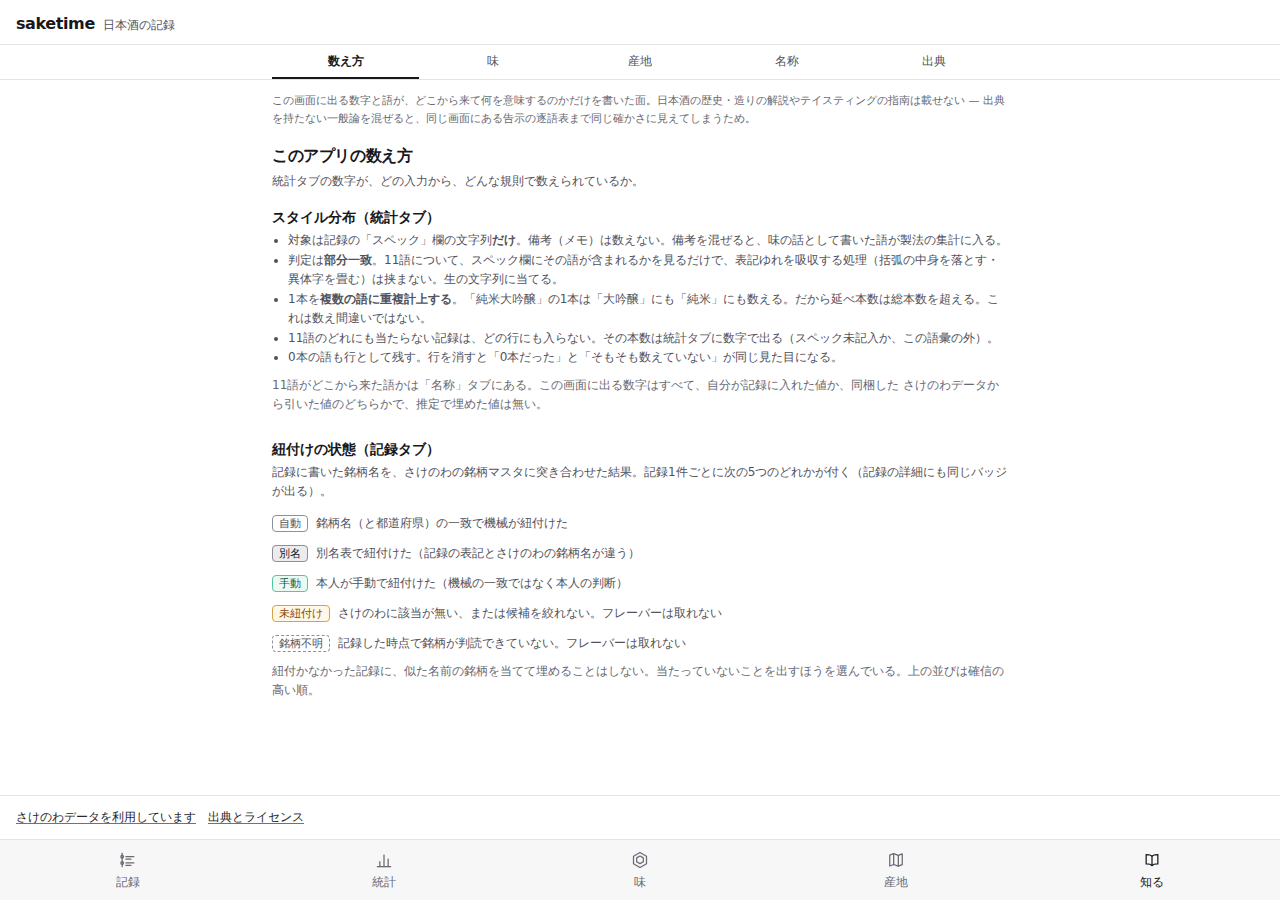
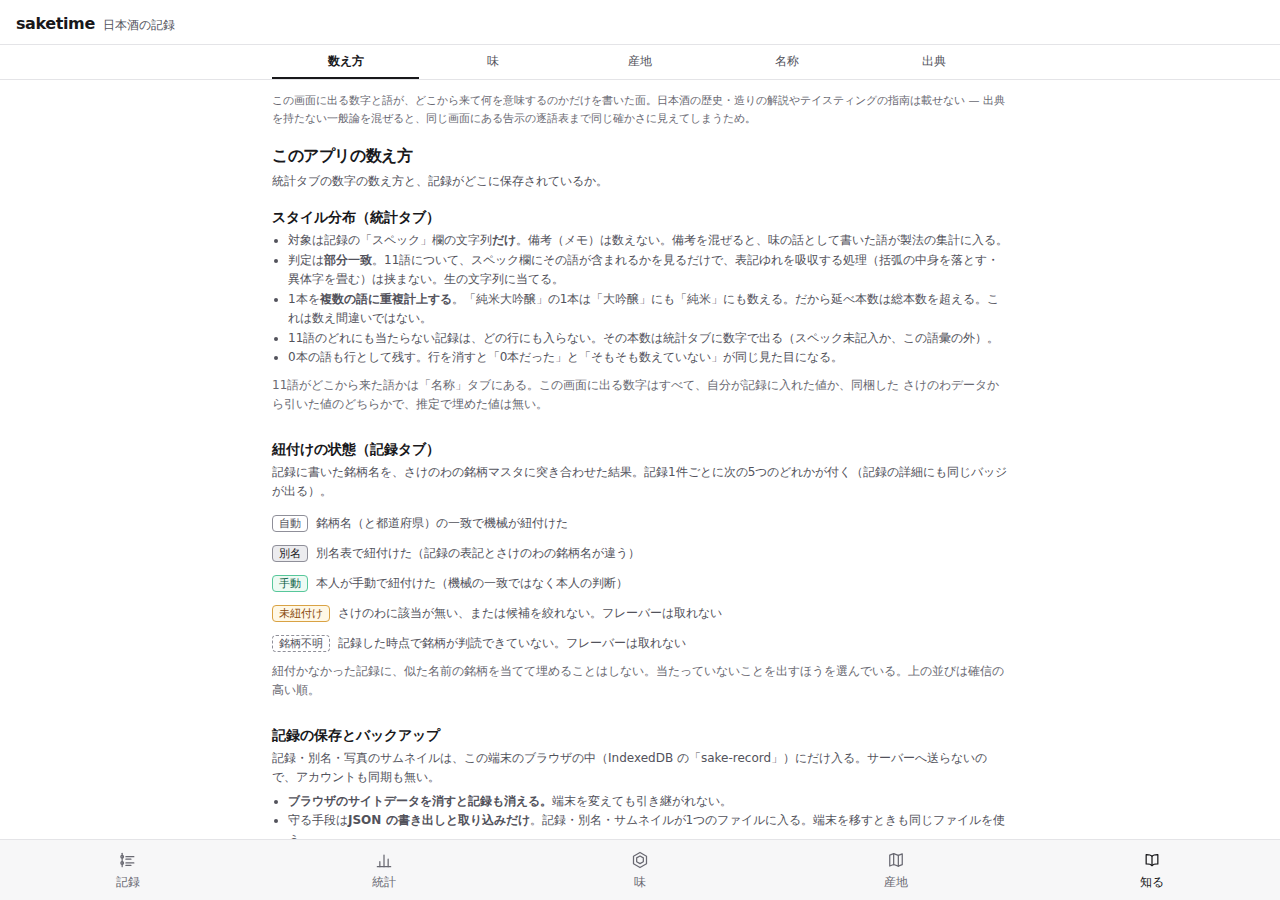
「知る」に記録の保存とバックアップの節を足す
記録が端末内にしか無いこと・消える条件・唯一の避難手段は、SPEC の
「決定に由来する制約」に書いてあるだけで画面のどこにも無かった。
「知る」の拡充で最も実害が大きいのはここなので先に足す。

- 記録・別名・サムネイルは IndexedDB(DB_NAME)にだけ入る。サーバーへ送らない
- サイトデータを消すと消える / 端末間で引き継がれない
- 守る手段は JSON の書き出しと取り込みだけ
- 督促のしきい値(14/30日)とサムネイル仕様(400px / 50KB)は実装から引く
  (BackupNag が BACKUP_NOTICE_DAYS / BACKUP_STRONG_DAYS を export し、
   説明側は書き写さない。しきい値を変える変異で赤になることを確認)

npm run ci exit 0 (51 files / 1188 passed | 24 skipped)
demo-learn-390 / -1280 を撮り直した

Claude-Session: https://claude.ai/code/session_01AZUZ7iivu1N5qasut5vHGu

diff --git a/src/ui/Learn/Learn.tsx b/src/ui/Learn/Learn.tsx
@@ -40,7 +40,10 @@
 import { useEffect, useRef, useState, type ReactNode } from 'react'
 import { SAKENOWA_URL, SAKENOWA_DATA_URL } from '../../config/app.ts'
 import { STYLE_TERMS } from '../../domain/stats.ts'
+import { DB_NAME } from '../../store/db.ts'
+import { MAX_THUMBNAIL_BYTES, EDGE_LADDER } from '../../lib/image/resize.ts'
 import { MapCredit } from '../Attribution/Attribution.tsx'
+import { BACKUP_NOTICE_DAYS, BACKUP_STRONG_DAYS } from '../ImportExport/BackupNag.tsx'
 import { FILL_STEPS } from '../AreaMap/fillSteps.ts'
 import { PREFECTURE_TOTAL } from '../AreaMap/areaRows.ts'
 import { LINK_STATUS_BADGES, LINK_STATUS_ORDER } from '../Timeline/linkStatus.ts'
@@ -94,7 +97,10 @@ const LINK = 'text-link underline decoration-link-underline underline-offset-2'
 /** 表のセル。`align-top` は行の高さが揃わない多列の表で1行目を読ませるため */
 const CELL = 'border border-line px-1.5 py-1 text-left align-top font-normal'
 /** 語のチップ。原子ラベルなので必ず `whitespace-nowrap`（日本語は語中で折れる） */
-const CHIP = 'whitespace-nowrap rounded-full border border-line-strong bg-surface-raised px-2 py-0.5 text-[11px] text-ink'
+const CHIP =
+  'whitespace-nowrap rounded-full border border-line-strong bg-surface-raised px-2 py-0.5 text-[11px] text-ink'
+/** サムネイルの長辺（`EDGE_LADDER` の先頭 = SPEC の既定値。落とし込みの段は説明に出さない） */
+const THUMBNAIL_EDGE = EDGE_LADDER[0]
 
 type Props = {
   /**
@@ -217,6 +223,7 @@ function Panel({ id }: { id: LearnPanelId }) {
           <>
             <StyleCounting />
             <LinkStatusLegend />
+            <StorageNotes />
           </>
         )}
         {id === 'flavor' && (
@@ -347,6 +354,39 @@ function LinkStatusLegend() {
       <p className={NOTE}>
         紐付かなかった記録に、似た名前の銘柄を当てて埋めることはしない。当たっていないことを出すほうを選んでいる。上の並びは確信の高い順。
       </p>
+    </Block>
+  )
+}
+
+/**
+ * 記録がどこにあるか。**このアプリで最も実害の大きい知識**なので画面に置く
+ * （SPEC の「決定に由来する制約」に書いてあるだけで、これまで画面のどこにも無かった）。
+ *
+ * 数値は実装から引く: DB 名は `DB_NAME`、督促のしきい値は `BACKUP_NOTICE_DAYS` /
+ * `BACKUP_STRONG_DAYS`、サムネイルの上限は `MAX_THUMBNAIL_BYTES` と `EDGE_LADDER[0]`。
+ * **ここに数字を書き写さない** — 書き写すと、しきい値を直したときに説明だけが古くなる。
+ */
+function StorageNotes() {
+  return (
+    <Block id="counting-storage">
+      <p className={BODY}>
+        {`記録・別名・写真のサムネイルは、この端末のブラウザの中（IndexedDB の「${DB_NAME}」）にだけ入る。サーバーへ送らないので、アカウントも同期も無い。`}
+      </p>
+      <ul className={`${BODY} list-disc pl-4`}>
+        <li>
+          <b>ブラウザのサイトデータを消すと記録も消える。</b>
+          端末を変えても引き継がれない。
+        </li>
+        <li>
+          守る手段は<b>JSON の書き出しと取り込みだけ</b>。記録・別名・サムネイルが1つのファイルに入る。端末を移すときも同じファイルを使う。
+        </li>
+        <li>
+          {`最後に書き出してから ${String(BACKUP_NOTICE_DAYS)}日で注意、${String(BACKUP_STRONG_DAYS)}日で強い注意を記録タブに出す。一度も書き出していないときは経過日数が分からないので、段は上げずに事実だけを言う。`}
+        </li>
+        <li>
+          {`写真は長辺 ${String(THUMBNAIL_EDGE)}px・${String(Math.round(MAX_THUMBNAIL_BYTES / 1024))}KB 以下のサムネイルだけを保存する。原本はアプリが持たない（端末のカメラロールに残る）。ラベルの OCR も端末内で動くので、写真は外に出ない。`}
+        </li>
+      </ul>
     </Block>
   )
 }

diff --git a/src/ui/Learn/Learn.test.tsx b/src/ui/Learn/Learn.test.tsx
@@ -283,6 +283,25 @@ describe('Learn（知る）', () => {
       },
     )
 
+    // ★ 実害が最も大きい知識。記録は端末内にしかなく、消える条件とバックアップの手段を
+    // 画面に書いていなかった（SPEC の「決定に由来する制約」に書いてあるだけだった）
+    it('記録が端末内にしか無いこと・消える条件・唯一の避難手段を書く', () => {
+      render(<Learn />)
+
+      expect(screen.getByText(/この端末のブラウザの中/)).toBeInTheDocument()
+      expect(screen.getByText(/サイトデータを消すと記録も消える/)).toBeInTheDocument()
+      expect(screen.getByText(/JSON の書き出しと取り込みだけ/)).toBeInTheDocument()
+    })
+
+    // 数値は実装から引く（14/30日・400px・50KB を書き写すと、直したとき説明だけが古くなる）
+    it('督促のしきい値とサムネイルの仕様を実装と同じ値で出す', () => {
+      render(<Learn />)
+
+      expect(screen.getByText(/14日で注意、30日で強い注意/)).toBeInTheDocument()
+      expect(screen.getByText(/長辺 400px・50KB 以下/)).toBeInTheDocument()
+      expect(screen.getByText(/原本はアプリが持たない/)).toBeInTheDocument()
+    })
+
     it('スタイル分布の規則（スペック欄だけ・部分一致・重複計上・備考は数えない）を書く', () => {
       render(<Learn />)
       expect(screen.getByText(/備考（メモ）は数えない/)).toBeInTheDocument()

diff --git a/src/ui/Learn/outline.ts b/src/ui/Learn/outline.ts
@@ -31,6 +31,7 @@ export type LearnPanelId = 'counting' | 'flavor' | 'area' | 'meisho' | 'sources'
 export type LearnSubId =
   | 'counting-style'
   | 'counting-link'
+  | 'counting-storage'
   | 'flavor-axes'
   | 'flavor-tags'
   | 'area-source'
@@ -48,6 +49,7 @@ export type LearnSubId =
 export const LEARN_SUB_TITLES: Record<LearnSubId, string> = {
   'counting-style': 'スタイル分布（統計タブ）',
   'counting-link': '紐付けの状態（記録タブ）',
+  'counting-storage': '記録の保存とバックアップ',
   'flavor-axes': 'フレーバー6軸',
   'flavor-tags': '味タグ',
   'area-source': '県はどこから来るか',
@@ -78,8 +80,8 @@ export const LEARN_PANELS: readonly LearnPanel[] = [
     id: 'counting',
     tab: '数え方',
     title: 'このアプリの数え方',
-    summary: '統計タブの数字が、どの入力から、どんな規則で数えられているか。',
-    subs: ['counting-style', 'counting-link'],
+    summary: '統計タブの数字の数え方と、記録がどこに保存されているか。',
+    subs: ['counting-style', 'counting-link', 'counting-storage'],
   },
   {
     id: 'flavor',

diff --git a/src/ui/ImportExport/BackupNag.tsx b/src/ui/ImportExport/BackupNag.tsx
@@ -37,10 +37,16 @@ type Props = {
   now?: Date
 }
 
-/** 注意のしきい値。SPEC の「経過日数を警告表示」を2段に分ける(PHASE_7 の完了条件) */
-const NOTICE_DAYS = 14
+/**
+ * 注意のしきい値。SPEC の「経過日数を警告表示」を2段に分ける(PHASE_7 の完了条件)。
+ * **`export` してあるのは「知る」の保存の節が引くため** — あちらに 14/30 を書き写すと、
+ * しきい値を直したときに説明だけが古い日数のまま残る(画面は正しく見える)。
+ */
+export const BACKUP_NOTICE_DAYS = 14
 /** 強めのしきい値 */
-const STRONG_DAYS = 30
+export const BACKUP_STRONG_DAYS = 30
+const NOTICE_DAYS = BACKUP_NOTICE_DAYS
+const STRONG_DAYS = BACKUP_STRONG_DAYS
 
 type Level = 'none' | 'notice' | 'strong'
 
